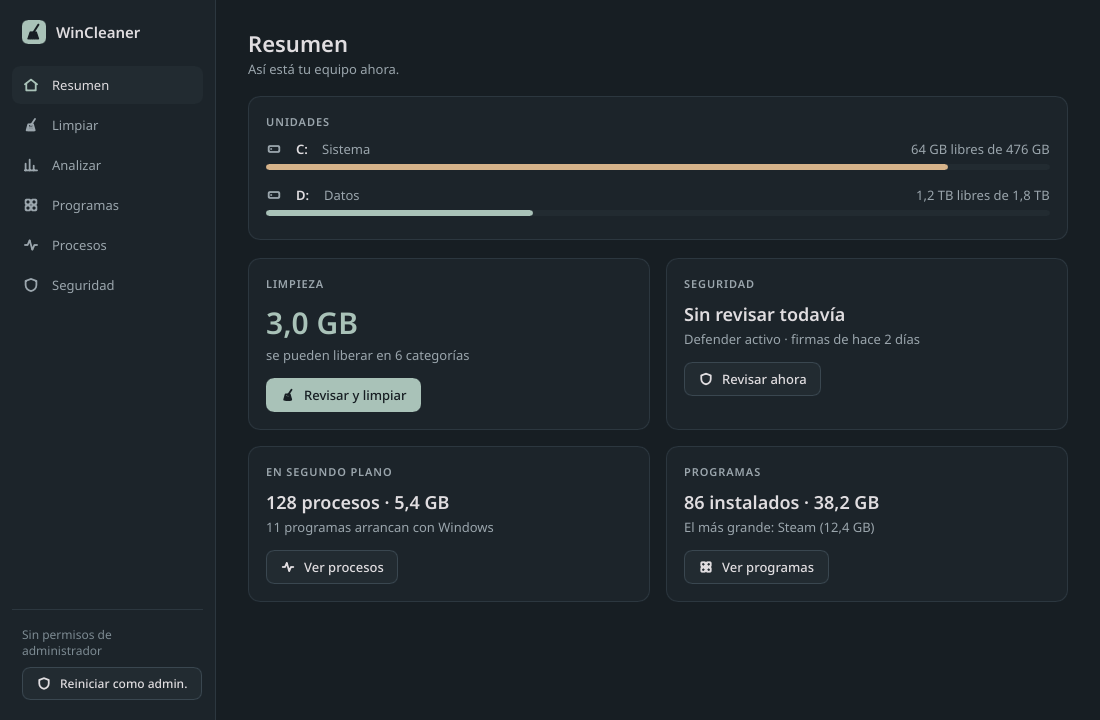
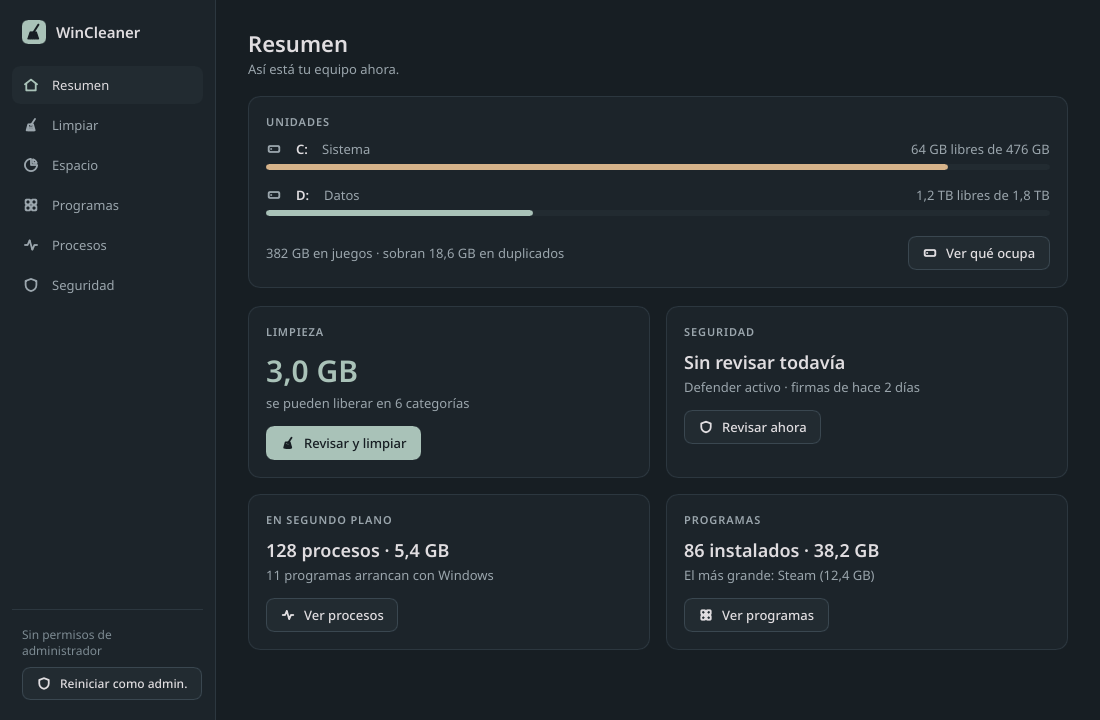
Resumen y README con la sección Espacio

diff --git a/src/gui/dups.rs b/src/gui/dups.rs
@@ -176,6 +176,11 @@ fn send_text(st: &State) -> (String, bool) {
 }
 
 /// Los grupos del tipo elegido, el subtítulo y el botón.
+/// Lo que sobra en todos los grupos, para el Resumen; `None` hasta la primera búsqueda.
+pub(super) fn waste() -> Option<u64> {
+    STATE.with_borrow(|st| st.groups.as_ref().map(|g| g.iter().map(Group::waste).sum()))
+}
+
 fn render(app: &AppWindow) {
     let data = app.global::<DupsData>();
     let kind = data.get_kind();
@@ -279,6 +284,7 @@ impl Dups {
                 if !app.get_locked() {
                     STATE.with_borrow_mut(|st| (st.groups, st.shown) = (None, Vec::new()));
                     choose(app);
+                    super::summary::refresh_space(app);
                 }
             })
         });
@@ -289,12 +295,6 @@ impl Dups {
         if let Some(app) = self.app.upgrade() {
             f(&app);
         }
-    }
-
-    /// Lo que sobra en todos los grupos, para el Resumen; `None` hasta la primera búsqueda.
-    #[allow(dead_code)] // Task 12
-    pub(super) fn waste(&self) -> Option<u64> {
-        STATE.with_borrow(|st| st.groups.as_ref().map(|g| g.iter().map(Group::waste).sum()))
     }
 
     /// «Buscar duplicados»: busca en un hilo en las opciones marcadas.
@@ -390,6 +390,7 @@ impl Dups {
         });
         if mine {
             render(app);
+            super::summary::refresh_space(app);
         }
     }
 
@@ -492,6 +493,7 @@ impl Dups {
             if app.global::<DupsData>().get_phase() == 2 {
                 render(app);
             }
+            super::summary::refresh_space(app);
         };
         self.space.send_to_bin(paths, names, size, retry, Some(still), after);
     }

diff --git a/src/gui/games.rs b/src/gui/games.rs
@@ -30,6 +30,11 @@ thread_local! {
     static STATE: RefCell<State> = RefCell::default();
 }
 
+/// Lo que ocupan los juegos, para el Resumen; `None` hasta la primera lectura.
+pub(super) fn total() -> Option<u64> {
+    STATE.with_borrow(|st| st.games.as_deref().map(sum))
+}
+
 fn sum(games: &[Game]) -> u64 {
     games.iter().filter_map(|g| g.size).sum()
 }
@@ -93,12 +98,6 @@ impl Games {
         g
     }
 
-    /// Lo que ocupan los juegos, para el Resumen; `None` hasta la primera lectura.
-    #[allow(dead_code)] // Task 12
-    pub(super) fn total(&self) -> Option<u64> {
-        STATE.with_borrow(|st| st.games.as_deref().map(sum))
-    }
-
     /// Lee la lista en un hilo y, después, en el mismo hilo, mide los juegos que no dicen su tamaño.
     /// La lista de antes se queda hasta que llega la nueva. También al entrar en la pestaña.
     pub(super) fn load(&self) {
@@ -131,6 +130,7 @@ impl Games {
         data.set_selected(-1);
         data.set_phase(1);
         STATE.with_borrow_mut(|st| st.games = Some(games));
+        super::summary::refresh_space(app);
     }
 
     /// El juego `i` ya tiene tamaño: se rehace su fila (sin tocar la selección) y el total.
@@ -145,6 +145,7 @@ impl Games {
         let data = app.global::<GamesData>();
         data.get_rows().set_row_data(i, r);
         data.set_subtitle(sub.into());
+        super::summary::refresh_space(app);
     }
 
     /// «Desinstalar» en la fila `i`: pregunta y abre el lanzador, Configuración o Programas.

diff --git a/src/gui/summary.rs b/src/gui/summary.rs
@@ -67,6 +67,27 @@ pub fn set_security(app: &AppWindow, title: &str, text: &str) {
     d.set_security_text(text.into());
 }
 
+/// Tarjeta de Unidades, línea de Espacio: lo que ocupan los juegos y lo que sobra en duplicados.
+pub fn set_space(app: &AppWindow, games: Option<u64>, dups: Option<u64>) {
+    let mut text = match games.filter(|&g| g > 0) {
+        Some(g) => format!("{} en juegos", format::bytes(g)),
+        None => "Mira a dónde va cada GB".to_string(),
+    };
+    if let Some(w) = dups.filter(|&w| w > 0) {
+        if games.is_some_and(|g| g > 0) {
+            text += &format!(" · sobran {} en duplicados", format::bytes(w));
+        } else {
+            text = format!("Sobran {} en duplicados", format::bytes(w));
+        }
+    }
+    app.global::<SummaryData>().set_space_text(text.into());
+}
+
+/// Rehace la línea de Espacio con los datos que haya ahora.
+pub fn refresh_space(app: &AppWindow) {
+    set_space(app, super::games::total(), super::dups::waste());
+}
+
 /// Conecta la sección y lee las unidades por primera vez.
 pub fn init(app: &AppWindow) {
     let d = app.global::<SummaryData>();
@@ -84,4 +105,5 @@ pub fn init(app: &AppWindow) {
         }
     });
     refresh_drives(app);
+    refresh_space(app);
 }

diff --git a/examples/capturas.rs b/examples/capturas.rs
@@ -48,6 +48,7 @@ fn main() -> Result<(), Box<dyn std::error::Error>> {
     data.set_procs_text("11 programas arrancan con Windows".into());
     data.set_programs_title("86 instalados · 38,2 GB".into());
     data.set_programs_text("El más grande: Steam (12,4 GB)".into());
+    data.set_space_text("382 GB en juegos · sobran 18,6 GB en duplicados".into());
     for (suffix, w, h) in [("", 1100, 720), ("-min", 880, 600)] {
         guarda(&format!("wcv2-inicio{suffix}"), &headless::render(app.window(), w, h), w, h)?;
     }

diff --git a/README.md b/README.md
@@ -14,7 +14,7 @@
 
 ## ✨ Qué es
 
-WinCleaner es una herramienta para dejar Windows limpio y ligero: muestra dónde se va el espacio del disco, libera el que ocupan los archivos temporales y las cachés, y te deja ver y ordenar lo que tienes instalado, en marcha y arrancando con Windows. Es un único `.exe` portable de unos 8,2 MB (8 218 624 B; el límite es 8 MiB), sin instalación, sin telemetría y con la interfaz en español. Funciona en Windows 10 1809 o posterior y en Windows 11.
+WinCleaner es una herramienta para dejar Windows limpio y ligero: muestra dónde se va el espacio del disco, libera el que ocupan los archivos temporales y las cachés, y te deja ver y ordenar lo que tienes instalado, en marcha y arrancando con Windows. Es un único `.exe` portable de unos 9,3 MB (9 308 672 B), sin instalación, sin telemetría y con la interfaz en español. Funciona en Windows 10 1809 o posterior y en Windows 11.
 
 ![Resumen de WinCleaner](docs/wcv2-inicio.png)
 
@@ -24,7 +24,7 @@ WinCleaner es una herramienta para dejar Windows limpio y ligero: muestra dónde
 
 La v2 tiene seis secciones en una barra lateral (con solo iconos por debajo de 1000 px de ancho). Pulsa la marca para ver «Acerca de».
 
-**Resumen.** Espacio libre de cada unidad y un vistazo a lo demás: lo que se puede liberar, procesos, programas y seguridad.
+**Resumen.** Espacio libre de cada unidad y lo que ocupan los juegos y lo que sobra en duplicados, y un vistazo a lo demás: lo que se puede liberar, procesos, programas y seguridad.
 
 **Programas.** Lista de lo instalado, con icono, tamaño y fecha, con búsqueda y orden. «Desinstalar» pide confirmación y ejecuta el desinstalador del propio programa; WinCleaner espera a que termine y refresca la lista.
 
@@ -32,7 +32,14 @@ La v2 tiene seis secciones en una barra lateral (con solo iconos por debajo de 1
 
 **Seguridad.** Estado de Microsoft Defender (activo, edad de las firmas), análisis rápido o completo que se puede cancelar, detecciones recientes y comprobaciones propias de solo lectura: programas de arranque, procesos, servicios y tareas programadas de inicio en sitios raros o sin firma, procesos de sistema falsos, archivo `hosts` y proxy. Cada hallazgo explica por qué importa y, según el caso, permite desactivar el inicio, terminar el proceso, abrir su ubicación o buscar su nombre en internet. Si una comprobación no se ha podido hacer, se dice.
 
-**Analizar.** Elige una unidad y WinCleaner lista las 50 carpetas y los 50 archivos más grandes, con un botón para abrir su ubicación en el Explorador. Se puede detener. Las carpetas se muestran sin repetir la cadena de antecesoras, para que se vea dónde se concentra el espacio.
+**Espacio.** Dónde se va el disco, en cuatro pestañas:
+
+- **Carpetas.** Elige una unidad y WinCleaner analiza su árbol (se puede detener): entras y sales de las carpetas, ves qué ocupa cada una y puedes abrirla en el Explorador. Las que tienen juegos dentro llevan la pastilla «Juegos».
+- **Juegos.** Los de Steam, Epic, GOG, Battle.net y Xbox, con su tamaño y cuándo los jugaste. «Desinstalar» abre el lanzador o la Configuración de Windows, nunca borra por su cuenta.
+- **Duplicados.** Busca archivos idénticos en tus carpetas o en la unidad que elijas; conserva una copia de cada grupo (por defecto, la de la carpeta conocida) y marca las demás.
+- **Instaladores viejos.** Los `.exe`, `.msi` e imágenes de Descargas y Escritorio, con los de más de 30 días marcados y los que ya tienes instalados señalados.
+
+Borrar desde Espacio siempre manda a la papelera (con «Deshacer»); solo «Borrar del todo…» es definitivo y pide escribir BORRAR. Hay zonas protegidas que no se pueden borrar: `Windows`, `Program Files`, `Users\Public`, la carpeta Documentos, la propia carpeta de WinCleaner y las carpetas con juegos. Se ven, pero sin casilla ni botón de borrar.
 
 **Limpiar.** Nueve categorías, cada una con su casilla y su tamaño (bytes y archivos) antes de borrar:
 
